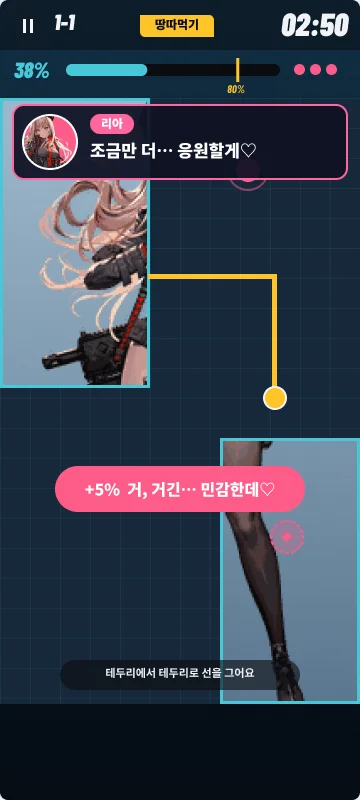
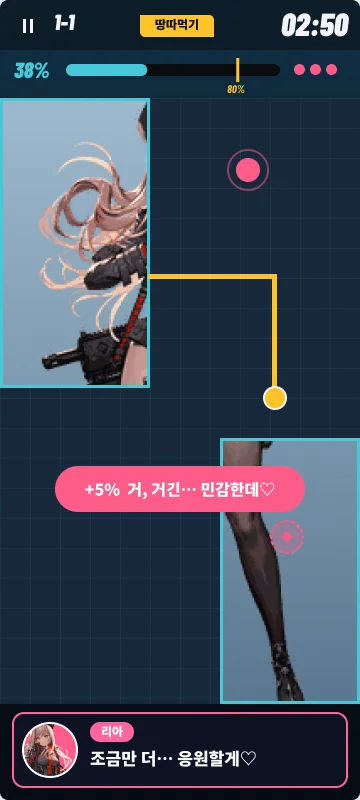
Puzzle screens: cheer dialogue moved to bottom bar (like LITE), hint lines removed
Claude-Session: https://claude.ai/code/session_01QC4LnGUoEV4hPAaGSGh6GF

Changed region(s): [[0.0306, 0.8125, 0.9778, 1.0], [0.0306, 0.125, 0.9778, 0.25]]

diff --git a/japan-project/jintori-mockup/index.html b/japan-project/jintori-mockup/index.html
@@ -55,7 +55,7 @@ html,body{margin:0;height:100%;background:var(--bg);color:var(--ink);font-family
 .photo{width:62%;border-radius:8px;box-shadow:0 8px 22px var(--shadow);margin:6px auto 12px;display:block}
 .auto{position:absolute;right:10px;top:600px;font:900 italic 12px/1 "Barlow Condensed",system-ui;color:var(--accent2);letter-spacing:1px;display:none}
 .auto.on{display:block}
-[data-mode="lite"] .chat{top:404px;border-left:5px solid var(--accent2)}
+.chat{top:404px;border-left:5px solid var(--accent2)}
 .pwrap{position:relative;width:62%;margin:6px auto 12px;border-radius:8px;overflow:hidden;box-shadow:0 8px 22px var(--shadow)}
 .pwrap img{width:100%;display:block}
 .veil{position:absolute;left:0;right:0;bottom:0;height:20%;background:rgba(230,240,255,.55);backdrop-filter:blur(9px);-webkit-backdrop-filter:blur(9px);transition:height 1.1s ease}
